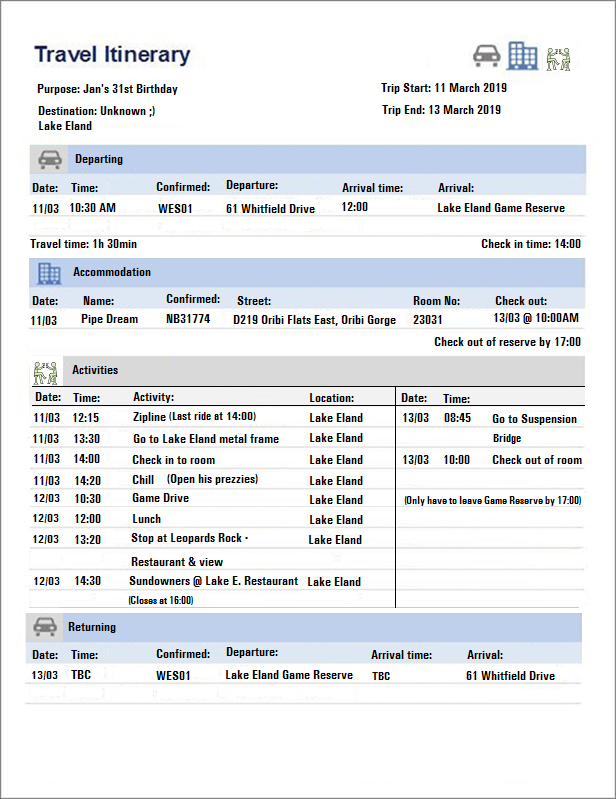
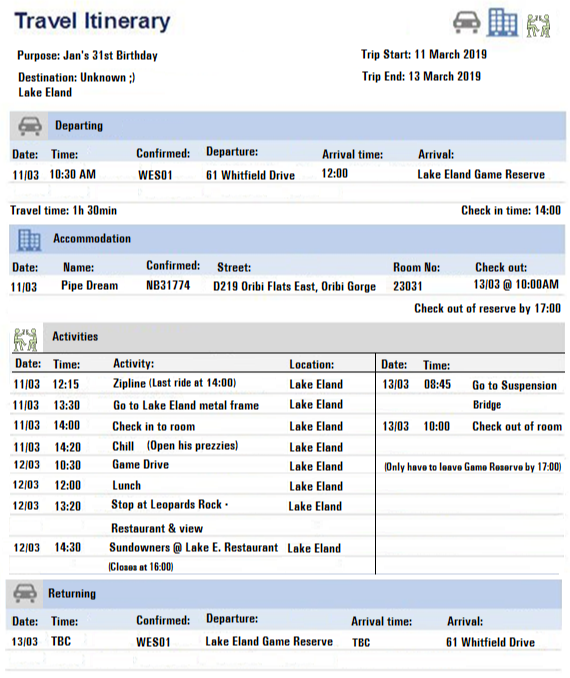
w
w

diff --git a/Pages/Page11.html b/Pages/Page11.html
@@ -5,6 +5,6 @@
 <link rel="stylesheet" type="text/css" href="..\css\Page11.css">
 </head>
 <body align="center">
-<img src="../Assets/iten.png" width="350px" height="350pxt">
+<img src="../Assets/iten.png" width="device-width" height="device-height">
 </body>
 </html>

diff --git a/css/Page11.css b/css/Page11.css
@@ -3,7 +3,6 @@ html,body{
     height:100%;
 }
 body {
-background-image: url(../Assets/Animal.png);
 background-repeat: no-repeat;
 background-size: cover;
 }
